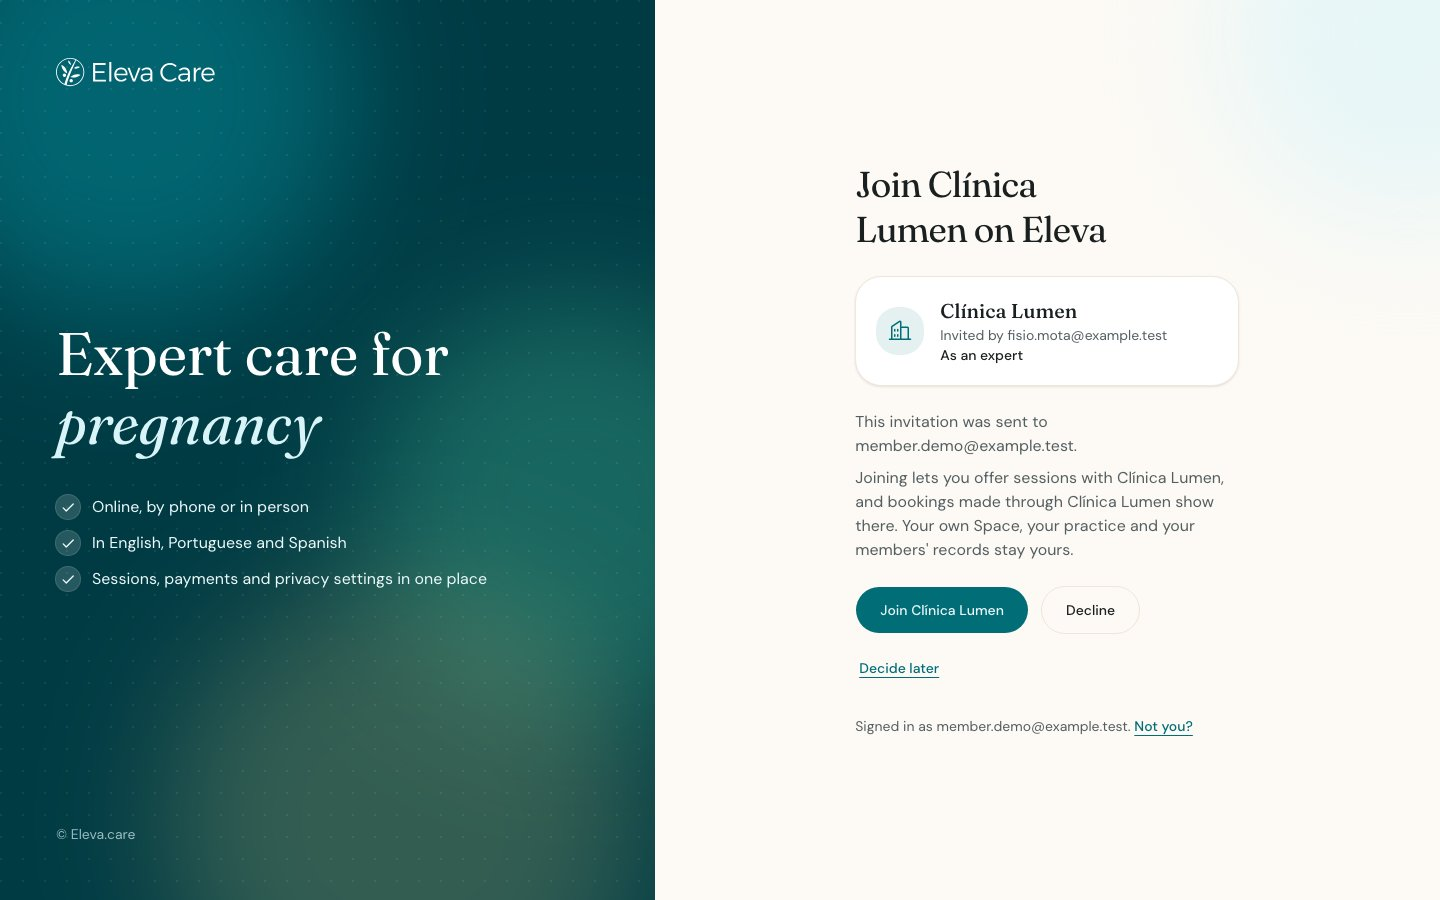
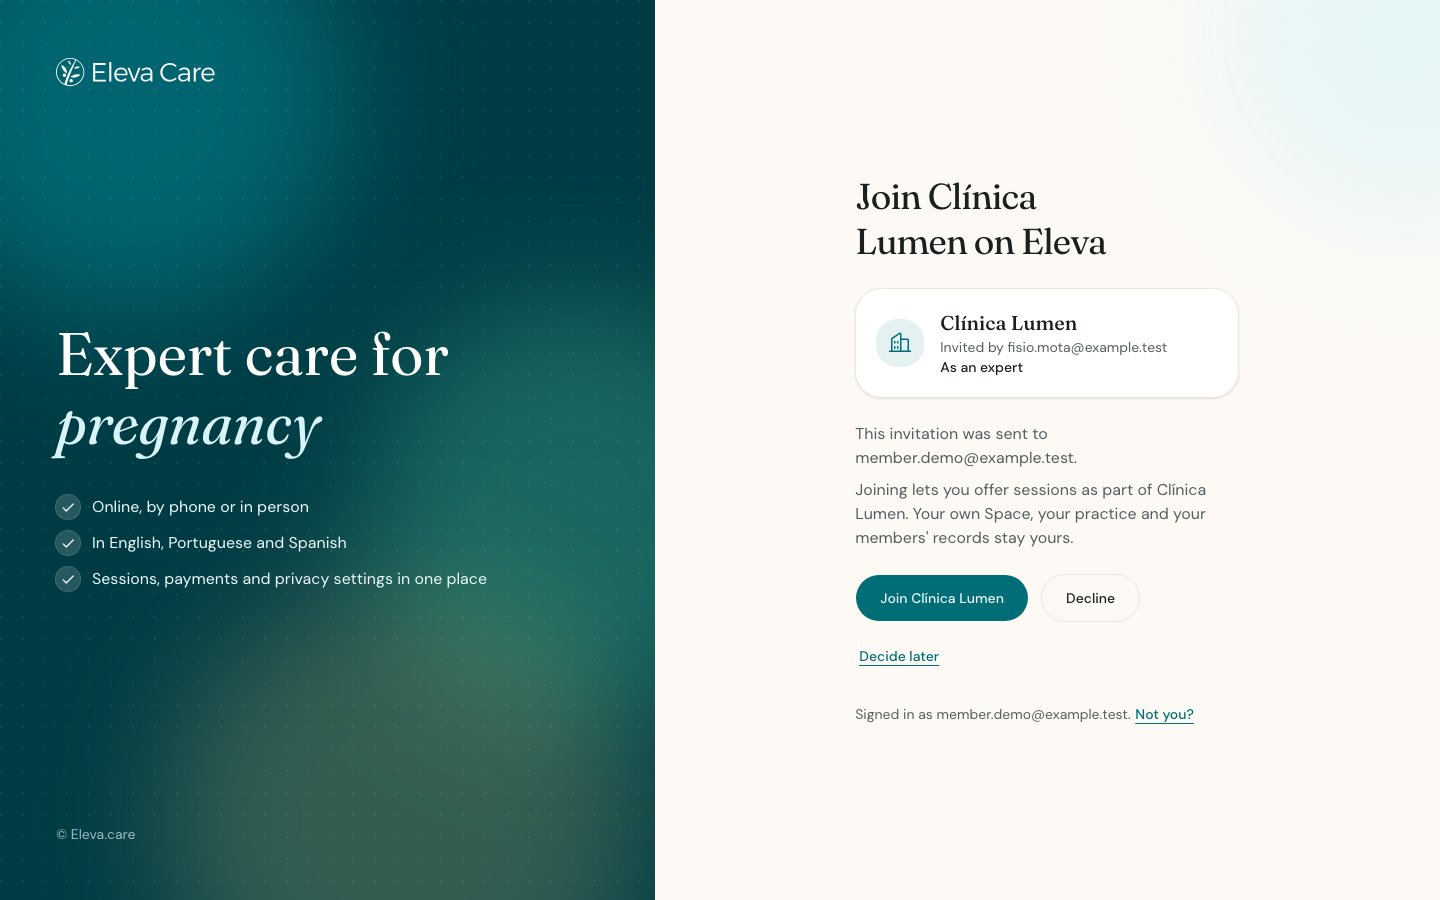
fix(p11): invitation polish: neutral portuguese, failed sign-out handled, read with heading

diff --git a/apps/account/src/app/(auth)/accept-invitation/accept-invitation.tsx b/apps/account/src/app/(auth)/accept-invitation/accept-invitation.tsx
@@ -58,6 +58,7 @@ export function AcceptInvitation({
   )
   const [busy, setBusy] = useState<"accept" | "decline" | "switch" | null>(null)
   const [limitReached, setLimitReached] = useState(false)
+  const [switchFailed, setSwitchFailed] = useState(false)
   const headingRef = useRef<HTMLHeadingElement>(null)
 
   useEffect(() => {
@@ -128,7 +129,16 @@ export function AcceptInvitation({
   /** Sign out, then sign in again and come straight back here. */
   async function switchAccount() {
     setBusy("switch")
-    await authClient.signOut().catch(() => undefined)
+    setSwitchFailed(false)
+    const { error } = await authClient
+      .signOut()
+      .catch(() => ({ error: { code: "SIGN_OUT_FAILED" } }))
+    if (error) {
+      // Still signed in: going to /login would loop back here.
+      setBusy(null)
+      setSwitchFailed(true)
+      return
+    }
     const back = `/accept-invitation?id=${encodeURIComponent(invitationId ?? "")}`
     window.location.assign(`/login?returnTo=${encodeURIComponent(back)}`)
   }
@@ -247,14 +257,20 @@ export function AcceptInvitation({
             </div>
             <p className="text-sm text-muted-foreground">
               {t("signedInAs", { email: signedInEmail })}{" "}
-              <button
-                type="button"
-                onClick={() => void switchAccount()}
-                className="inline-flex min-h-6 items-center rounded-sm font-medium text-primary underline underline-offset-4 focus-visible:ring-3 focus-visible:ring-ring focus-visible:outline-none"
+              <Button
+                variant="link"
+                className="h-auto min-h-6 p-0 font-medium underline underline-offset-4"
+                isPending={busy === "switch"}
+                onPress={() => void switchAccount()}
               >
                 {t("notYou")}
-              </button>
+              </Button>
             </p>
+            {switchFailed ? (
+              <p role="alert" className="text-sm text-destructive">
+                {t("switchFailed")}
+              </p>
+            ) : null}
           </>
         )}
       </AuthStep>
@@ -289,6 +305,11 @@ export function AcceptInvitation({
           >
             {t("switchAccount")}
           </Button>
+        ) : null}
+        {switchFailed ? (
+          <p role="alert" className="w-full text-sm text-destructive">
+            {t("switchFailed")}
+          </p>
         ) : null}
         <LinkButton
           href="/dashboard"

diff --git a/packages/auth/src/server/auth.ts b/packages/auth/src/server/auth.ts
@@ -31,6 +31,7 @@ import {
 } from "../send-auth-email"
 import { isTrustedOrigin, trustedOrigins } from "../trusted-origins"
 import { authRateLimitEnabled } from "../e2e-auth-url"
+import { logError } from "@eleva/observability"
 import { recordInvitationResponse } from "../invitations"
 import { invitationAcceptUrl } from "../invitation-accept-url"
 import {
@@ -349,10 +350,8 @@ function createAuth() {
               memberId: member.id,
               outcome: "accepted",
             }).catch((err: unknown) => {
-              console.error(
-                "[auth] invitation accept audit failed",
-                err instanceof Error ? err.message : "unknown"
-              )
+              // Not atomic with Better Auth's write: surface the gap.
+              logError("[auth] invitation accept audit failed", err)
             })
           },
           afterRejectInvitation: async ({
@@ -371,10 +370,8 @@ function createAuth() {
               role: invitation.role,
               outcome: "rejected",
             }).catch((err: unknown) => {
-              console.error(
-                "[auth] invitation decline audit failed",
-                err instanceof Error ? err.message : "unknown"
-              )
+              // Not atomic with Better Auth's write: surface the gap.
+              logError("[auth] invitation decline audit failed", err)
             })
           },
         },

diff --git a/apps/account/src/components/auth-ui.tsx b/apps/account/src/components/auth-ui.tsx
@@ -1,6 +1,6 @@
 "use client"
 
-import { useEffect, useState, type ReactNode, type Ref } from "react"
+import { useEffect, useId, useState, type ReactNode, type Ref } from "react"
 import { useTranslations } from "next-intl"
 import { ArrowSquareOutIcon, PaperPlaneTiltIcon } from "@eleva/icons"
 import { Button } from "@eleva/ui/components/button"
@@ -48,6 +48,7 @@ export function AuthHeading({
   headingRef?: Ref<HTMLHeadingElement>
   headingProps?: { "data-testid"?: string; "data-state"?: string }
 }) {
+  const descriptionId = useId()
   return (
     <header className={cn("flex flex-col gap-2", className)}>
       {icon ? (
@@ -58,13 +59,18 @@ export function AuthHeading({
       <h1
         ref={headingRef}
         tabIndex={headingRef ? -1 : undefined}
+        // When focus moves here, the explanation is read with the title.
+        aria-describedby={headingRef && description ? descriptionId : undefined}
         {...headingProps}
         className="font-display text-3xl leading-tight font-normal tracking-tight text-balance text-foreground outline-none sm:text-4xl"
       >
         {title}
       </h1>
       {description ? (
-        <p className="text-base text-pretty text-muted-foreground">
+        <p
+          id={descriptionId}
+          className="text-base text-pretty text-muted-foreground"
+        >
           {description}
         </p>
       ) : null}

diff --git a/docs/eleva-v3/decision-log.md b/docs/eleva-v3/decision-log.md
@@ -32,6 +32,29 @@ Each entry should include:
 
 ## Current Entries
 
+### 2026-11-15: Accepting a clinic invitation (11.1c) (active)
+
+- Change (Phase 11.1c): invitation emails link to `/accept-invitation`
+  (account app), which now exists. It names the clinic, who invited her and
+  to which email, and offers Join, Decline (final) and Decide later.
+  Wrong account, unavailable and unverified-email states each say what to
+  do; switching account signs out and returns to the invitation.
+- Accepting and declining are audited from Better Auth's
+  `after*Invitation` hooks (`membership.created`, `invitation.rejected`);
+  a failed audit is reported to the error monitor. Invitations require a
+  verified email (`requireEmailVerificationOnInvitation`). Account-app
+  paths are reserved usernames, with a test keeping them in sync.
+- Follow-ups (not shipped): accept through an `apps/api` route so the
+  membership and its audit row commit atomically; Better Auth invitation
+  endpoints in `/openapi.json`; the inviter's display name instead of
+  email; a resend button on the verify state; auditing invitation sending
+  (team UI slice). When the clinic shared-records toggle ships, the
+  invitation must say records of clinic bookings may be shared among its
+  experts.
+- Judges panel: round 1 UI/UX 7.6, trust 7.4; round 2 UI/UX 8.8, trust 8.8.
+- Owner: engineering
+- Status: `active`
+
 ### 2026-11-15: Checked-registration proof on profiles and cards (D2.1) (needs legal review)
 
 - Change (design slice D2.1): under the expert's name, a proof block says
